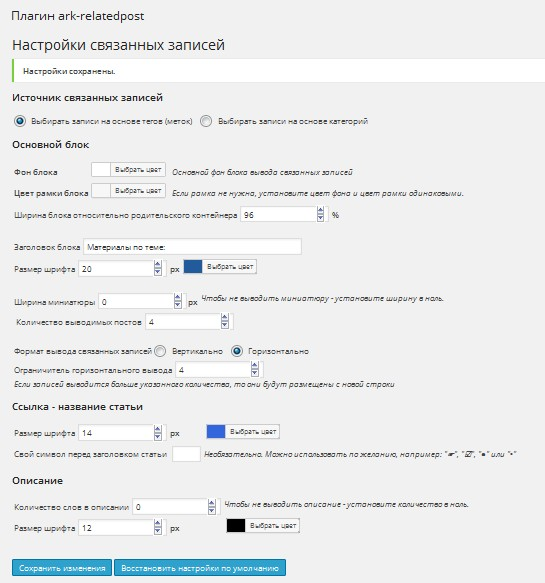
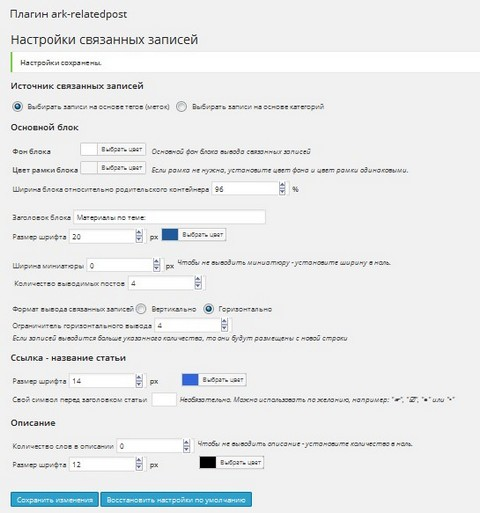
ark-relatedpost version 2.1
git-svn-id: https://plugins.svn.wordpress.org/ark-relatedpost/trunk@1003658 b8457f37-d9ea-0310-8a92-e5e31aec5664

diff --git a/ark-relatedpost.php b/ark-relatedpost.php
@@ -4,7 +4,7 @@ Plugin Name: ark-relatedpost
 Author: Александр Каратаев
 Plugin URI: http://blog.ddw.kz/novyj-plagin-vyvoda-svyazannyx-zapisej-ark-relatedpost.html
 Description: Вывод связанных записей на основе тегов
-Version: 2.0
+Version: 2.1
 Author URI: http://blog.ddw.kz
 License: GPL2
 */
@@ -45,6 +45,7 @@ delete_option( 'ark_relpost' );
 function ark_init_option() {
 $ark_option = array(
 'ark_imgsize' => '70',
+'ark_imgurl' => '',
 'ark_maxword' => '24',
 'ark_bgcolor' => '#FFF',
 'ark_bordercolor' => '#C7C7C7',
@@ -84,8 +85,9 @@ function add_admin_iris_scripts( $hook ){
 add_action( 'admin_enqueue_scripts', 'add_admin_iris_scripts' );
 // Вывод страницы опций в субменю
 function ark_rp_options_page() {
-    echo "<h2>Плагин ark-relatedpost</h2>";
 	screen_icon('users');
+    echo '<h2>Плагин&nbsp;ark-relatedpost&nbsp;2.1</h2><div style="clear: both;float:right;"><a href="http://blog.ddw.kz/podderzhka-proektov-avtora-etogo-bloga
+" target="_blank"><img align="right" src="' . plugins_url( '/img/button-donate.png', __FILE__ ) . '" alt="Пожертвовать" border="0" /></a></div>';
 ?>	
 <div class="wrap">
 <h2>Настройки связанных записей</h2>
@@ -93,6 +95,7 @@ function ark_rp_options_page() {
 if (isset($_POST['save'])) {
 $ark_option = array(
 'ark_imgsize' => $_POST['ark_imgsize'],
+'ark_imgurl' => $_POST['ark_imgurl'],
 'ark_maxword' => $_POST['ark_maxword'],
 'ark_bgcolor' => $_POST['ark_bgcolor'],
 'ark_bordercolor' => $_POST['ark_bordercolor'],
@@ -170,6 +173,9 @@ $result = get_option('ark_relpost');
 <tr valign="top">
 <td>Ширина миниатюры <input type="number" min="0" max="150" name="ark_imgsize" size="3" value="<?php echo $result['ark_imgsize']; ?>" /><b>px</b>&nbsp;</td>
 <td><i>Чтобы не выводить миниатюру - установите ширину в ноль.</i></td>
+</tr></table><table><tr>
+<td><input type="url" name="ark_imgurl" size="50" placeholder="Введите URL своей картинки" value="<?php echo $result['ark_imgurl']; ?>" /></td>
+<td><i>URL собственной картинки-заглушки, которая будет выводиться когда не найдена миниатюра. Может располагаться на стороннем хосте.</i></td>
 </tr><tr>
 <td colspan="2">&nbsp;Количество выводимых постов <input type="number" min="1" max="40" name="ark_maxposts" size="2" value="<?php echo $result['ark_maxposts']; ?>" /></td>
 </tr></table>
@@ -235,16 +241,31 @@ function set_style_arkrp() {
 add_action( 'wp_enqueue_scripts', 'set_style_arkrp' );
 
 //  Пропорциональное изменение картинок
-function ark_that_image() {
+function ark_that_image($userimgurl) {
 $image_id = get_post_thumbnail_id();
 $image_url = wp_get_attachment_image_src($image_id);
 $image_url = $image_url[0];
   if(empty($image_url)) {
-    //$image_url = "http://blog.ddw.kz/wp-content/uploads/2013/obg.png"; // Ссылка на заглушку
-	$image_url = plugins_url( '/img/ark-noimage.png', __FILE__ );
+	$image_url = ark_get_post_image();
+	  if(empty($image_url)) {
+		if (empty($userimgurl)) {
+			$image_url = plugins_url( '/img/ark-noimage.png', __FILE__ );
+			} else {
+			$image_url = $userimgurl;
+		}
+	}
   }
 return $image_url;
 }	
+function ark_get_post_image() {
+  global $post, $posts;
+  $first_img = '';
+  ob_start();
+  ob_end_clean();
+  $output = preg_match_all('/<img.+src=[\'"]([^\'"]+)[\'"].*>/i', $post->post_content, $matches);
+  $first_img = $matches [1] [0];
+  return $first_img;
+}
 // Материалы по теме 	
 function get_ark_related_posts() {	
 $result = get_option('ark_relpost');
@@ -252,6 +273,7 @@ $arkImgSize = $result['ark_imgsize'];
 $arkMaxWord = $result['ark_maxword'];
 $arkTitle = $result['ark_title'];
 $arkWidth = $result['ark_width'];
+$userimgurl = $result['ark_imgurl'];
 $MaxGPosts = 0;
 if ($result['ark_source']==0) {
 	$tags = wp_get_post_tags(get_the_ID());
@@ -317,7 +339,7 @@ if ($result['ark_source']==0) {
 				$arkimgalign = 'top';
 				$arksubtitle = '<center>' . $arksubtitle . '</center>';
 		  }
-		  $arkpimg = '<img width="' . $result['ark_imgsize'] . 'px" height="' . $result['ark_imgsize'] . 'px" align="'.$arkimgalign.'" src="' . ark_that_image() . '" />';	
+		  $arkpimg = '<img width="' . $result['ark_imgsize'] . 'px" height="' . $result['ark_imgsize'] . 'px" align="'.$arkimgalign.'" src="' . ark_that_image($userimgurl) . '" />';	
 		 if ($result['ark_imgsize']>0) {
 			$arkrp = '<a href="'.$arkpostlinks.'">';
 			$arkrp = $arkrp . $arkpimg;	
